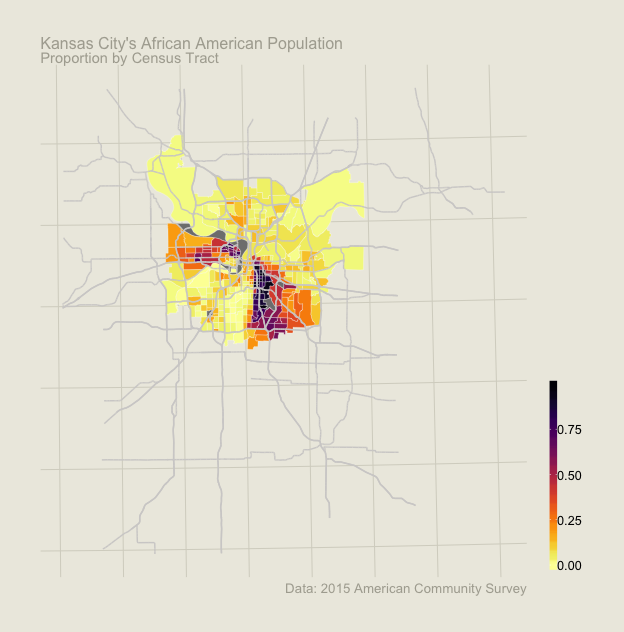
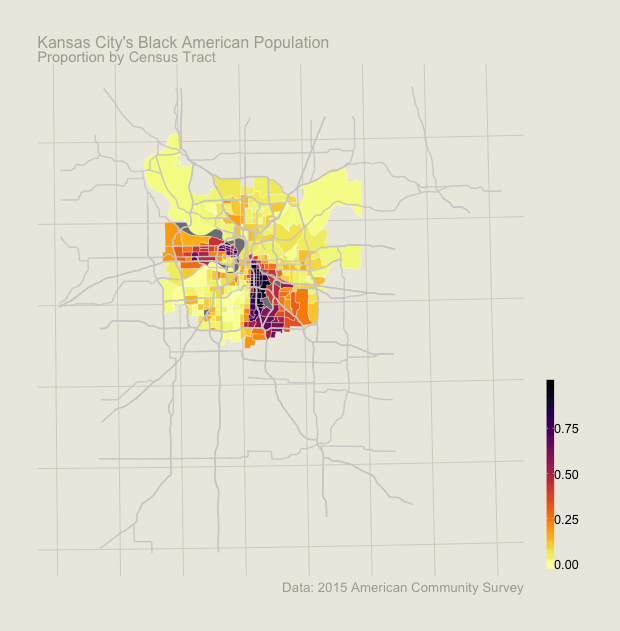
reword

diff --git a/content/blog/geographic-subsets.md b/content/blog/geographic-subsets.md
@@ -8,7 +8,7 @@ This was one of those moments where my Googling ability failed me. For learning 
 
 I'm interested in cities and their people, and city metropolitan areas often span multiple counties, however, not all counties are equal particularly in terms of area. Seriously, look up San Bernardino county, California and see how many New England states you can fit inside it. Well, the problem is that you are often not interested in all of the super-geographies during an analysis. Instead, you are interested in some sub-geographies that make up a certain radius around a coordinate. This was my issue and this post is going to walk you through two different solutions: one out of naïveté and the other a bit more researched.
 
-Kansas City is the perfect candidate to test subsetting around a coordinate. Its metropolitan area spans 9 counties and 2 states (the majority in Missouri and some in Kansas). Just to be exhaustive, I will be collecting on a 15 county area. It also happens to be my place of birth and where I spent the majority of the first 18 years of my life. I will be using `tidycensus` to gather the Census tracts for each of these counties along with the 2015 American Community Survey estimates on the proportion of African Americans living in each tract. Take a look at my [previous post](https://jcbain.github.io/blog/diversity-with-tidycensus/) for a more detailed explanation of using `tidycensus` to collect ACS data. First we will load in our packages and then gather our data.
+Kansas City is the perfect candidate to test subsetting around a coordinate. Its metropolitan area spans 9 counties and 2 states (the majority in Missouri and some in Kansas). Just to be exhaustive, I will be collecting on a 15 county area. It also happens to be my place of birth and where I spent the majority of the first 18 years of my life. I will be using `tidycensus` to gather the Census tracts for each of these counties along with the 2015 American Community Survey estimates on the proportion of Black Americans living in each tract. Take a look at my [previous post](https://jcbain.github.io/blog/diversity-with-tidycensus/) for a more detailed explanation of using `tidycensus` to collect ACS data. First we will load in our packages and then gather our data.
 
 ```r
 library(tidyverse)  
@@ -75,7 +75,7 @@ kc %>%
   ggplot(aes(fill = aa)) + 
   geom_sf( colour = '#ffffff', size = 0.1) + 
   scale_fill_viridis(option = "inferno", direction = -1) +
-  labs(title = "Kansas City's African American Population",
+  labs(title = "Kansas City's Black American Population",
        subtitle = "Proportion by Census Tract" ,
        caption = 'Data: 2015 American Community Survey')
  ```
@@ -125,7 +125,7 @@ kc_sub %>%
   ggplot(aes(fill = aa)) + 
   geom_sf( colour = '#ffffff', size = 0.1) + 
   scale_fill_viridis(option = "inferno", direction = -1) +
-  labs(title = "Kansas City's African American Population",
+  labs(title = "Kansas City's Black American Population",
        subtitle = "Proportion by Census Tract" ,
        caption = 'Data: 2015 American Community Survey')
 ```
@@ -160,7 +160,7 @@ kc_sel_sf %>%
   ggplot()+
   geom_sf(aes(fill = aa), colour = '#ffffff', size = 0.1) + 
   scale_fill_viridis(option = "inferno", direction = -1) +
-  labs(title = "Kansas City's African American Population",
+  labs(title = "Kansas City's Black American Population",
        subtitle = "Proportion by Census Tract" ,
        caption = 'Data: 2015 American Community Survey')
 ```
@@ -203,7 +203,7 @@ subset_map(kc_sub, -94.5786, 39.0997, dist = 20000) %>%
   geom_sf(data = highways, color = '#d1d0cf') +
   theme_mapper()+
   scale_fill_viridis(option = "inferno", direction = -1) +
-  labs(title = "Kansas City's African American Population",
+  labs(title = "Kansas City's Black American Population",
        subtitle = "Proportion by Census Tract" ,
        caption = 'Data: 2015 American Community Survey')
 ```
@@ -222,7 +222,7 @@ subset_map(kc_sub, -94.5786, 39.0997, dist = 20000) %>%
   geom_sf(data = highway_sub, color = '#d1d0cf') +
   theme_mapper()+
   scale_fill_viridis(option = "inferno", direction = -1) +
-  labs(title = "Kansas City's African American Population",
+  labs(title = "Kansas City's Black American Population",
        subtitle = "Proportion by Census Tract" ,
        caption = 'Data: 2015 American Community Survey')
 ```
